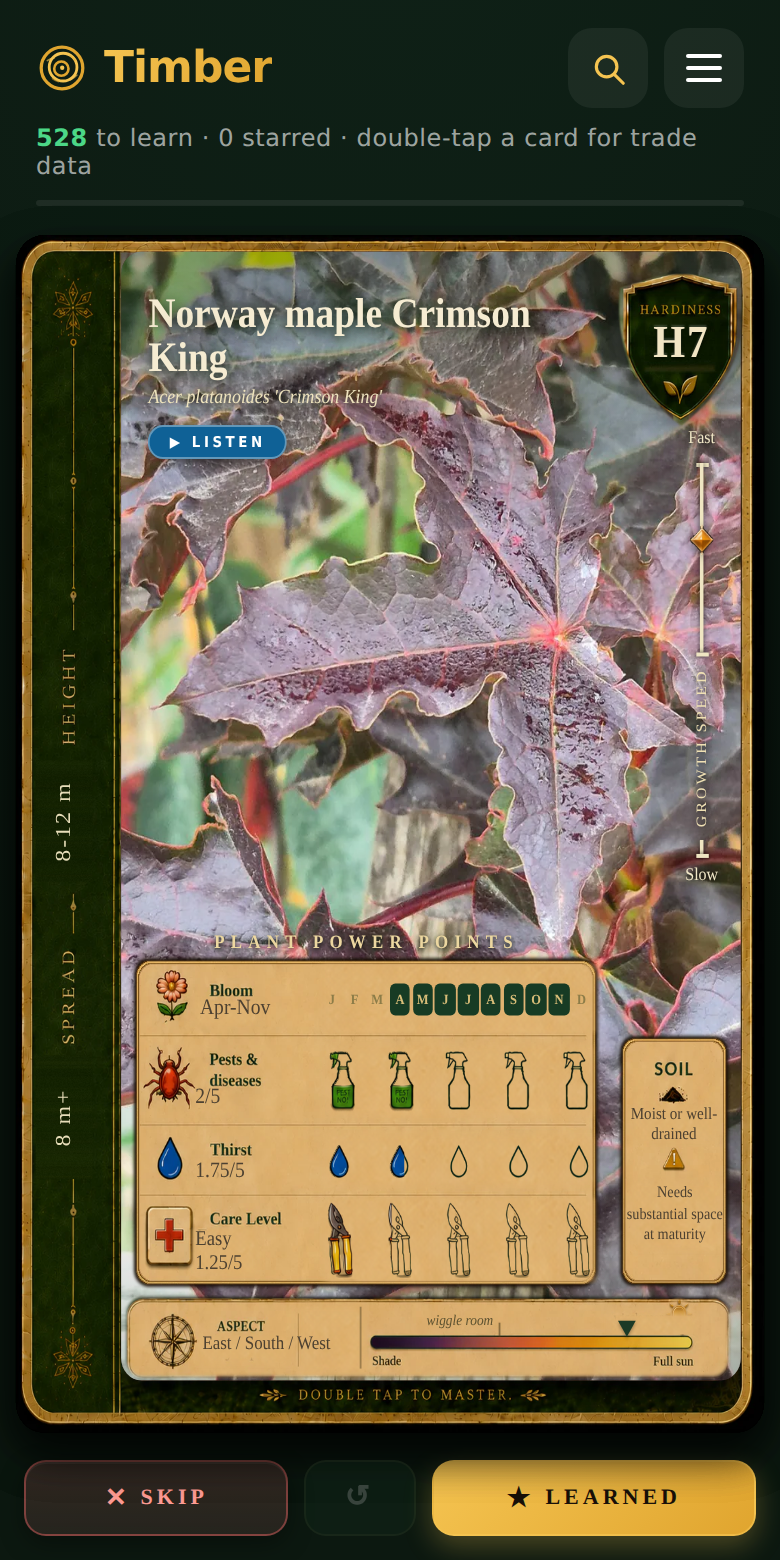
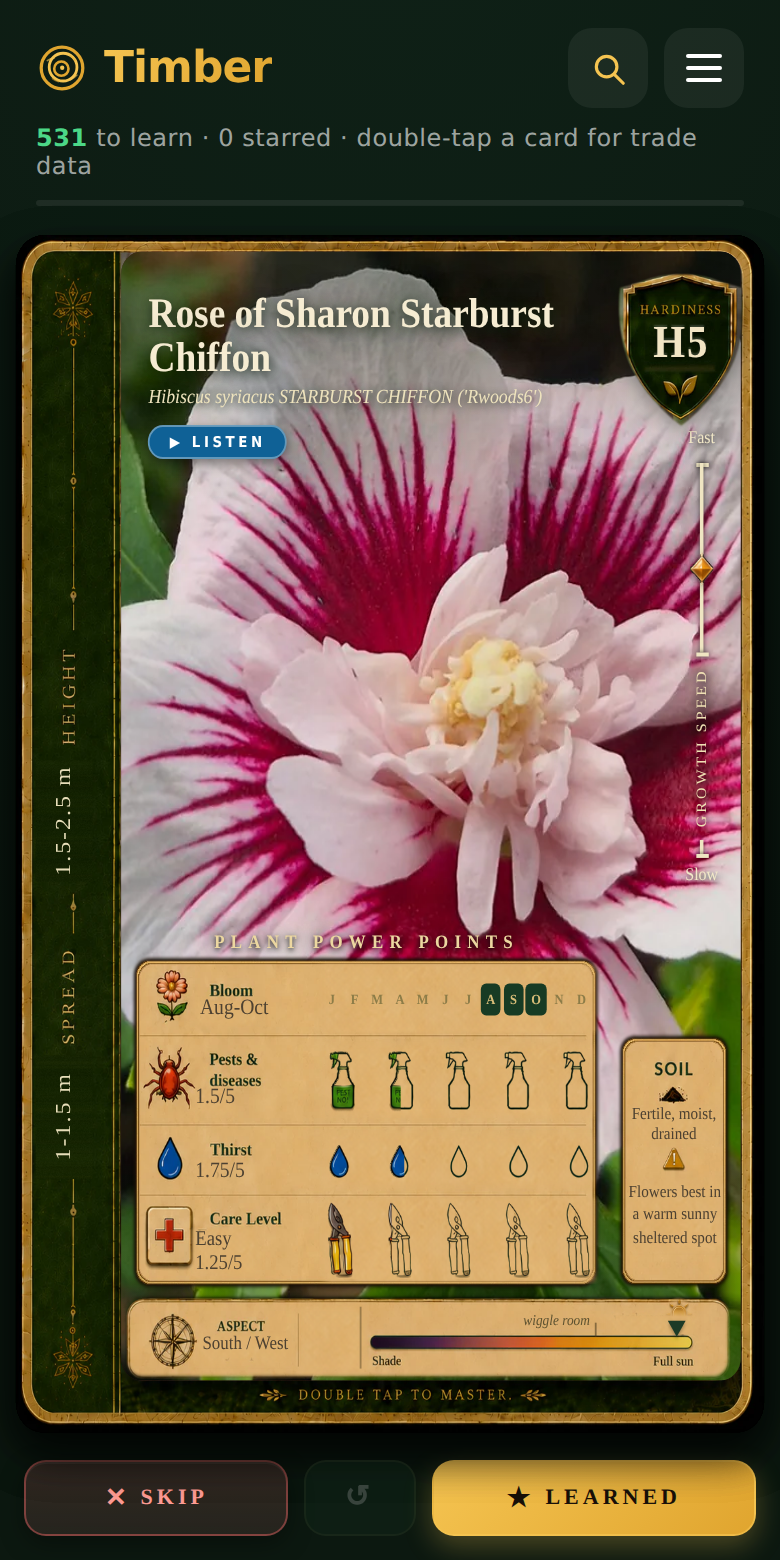
Deal cards 40-42 of the 2026-10-03 batch: Acer pseudoplatanus 'Drummondii', Abelia 'Radiance', Hibiscus STARBURST CHIFFON (deck 528 -> 531, r354); the batch is dealt
Oscar's last three photographs, sent in batch order and filed to the last
three entries by sight. One add-plants-bulk.js --quick run, card derivatives
built in the run, credits set by basename, originals stored byte-identical in
the batch folder with their EXIF and provenance scans in the README. All
three frame whole at default framing. Forty of the batch's forty-two entries
are now cards (Little Lime paused, Berrybank Dome a double). Data checks and
the fast set green; the full gate runs on this head before the ledger
records it and the PR is merged.

Claude-Session: https://claude.ai/code/session_0115MRQ7KYRqYEgMAWhohMA3

diff --git a/timber.html b/timber.html
@@ -1250,7 +1250,7 @@
 
 <script>
 /* ---------- latin pronunciation (built-in speech engine — offline, no files, no deps) ---------- */
-const BUILD='r353 · 2026-10-05 · 9410870';
+const BUILD='r354 · 2026-10-05 · f12321f';
 /* Shown in the menu foot so a phone's version is checkable at a glance — the SW
    serves the previous build once before swapping, which made "which build am I
    on?" a real question. DO NOT EDIT BY HAND: the trailing hash is a digest of
@@ -13336,6 +13336,45 @@ const PLANTS = [
    uses:"Large gardens, specimen tree, avenues.", size:"8-12 m H × 8 m+ W",
    hardinessNote:"Exceptionally cold-hardy.", foliage:"deciduous",
    seasonalImpact:"", growthSpeed:12, pestRisk:8, thirst:7, careLevel:5, sunNeed:80, sunMin:40},
+  {common:"Sycamore Drummondii", latin:"Acer pseudoplatanus 'Drummondii'", hue:80,
+   visual:"Large deciduous tree with broad green leaves conspicuously margined creamy white, creating a bright variegated canopy.",
+   water:"Moderate while establishing.",
+   aspect:"East / South / West",
+   soil:"Fertile, moist, drained; Cut out reverted all-green shoots at once",
+   prune:"Minimal pruning; remove reversions and damaged branches while dormant.",
+   source:"", peak:"Apr-Oct", order:"", bench:"", root:"",
+   trade:"", retail:"", margin:"", type:"", shrink:"", returnRisk:"", pots:"",
+   cvs:"Drummondii",
+   hardiness:"H7", resilience:"Very wind tolerant and adaptable.",
+   uses:"Large gardens, specimen tree, parkland.", size:"8-12 m H × 8 m+ W",
+   toxicity:"Seeds and seedlings can be harmful to horses.", hardinessNote:"Extremely cold-hardy.", foliage:"deciduous",
+   seasonalImpact:"", growthSpeed:12, pestRisk:8, thirst:7, careLevel:5, sunNeed:70, sunMin:35},
+  {common:"Abelia Radiance", latin:"Abelia × grandiflora 'Radiance'", hue:110,
+   visual:"Compact mound-forming shrub with glossy green leaves broadly variegated cream, bright red stems and lightly scented white trumpet flowers.",
+   water:"Moderate while establishing; some drought tolerance once mature.",
+   aspect:"South / West",
+   soil:"Moist but well-drained; Shelter from hard cold and drying winds",
+   prune:"Lightly shape in spring; older plants can be rejuvenated periodically.",
+   source:"", peak:"Jul-Oct", order:"", bench:"", root:"",
+   trade:"", retail:"", margin:"", type:"", shrink:"", returnRisk:"", pots:"",
+   cvs:"Radiance",
+   hardiness:"H4", resilience:"Drought resistant once established and generally pest-free.",
+   uses:"Containers, borders, low hedging, courtyard gardens.", size:"0.5-1 m H × 1-1.5 m W",
+   hardinessNote:"−10 to −5°C.", foliage:"semi-evergreen",
+   seasonalImpact:"", growthSpeed:9, pestRisk:3, thirst:7, careLevel:4, sunNeed:90, sunMin:65},
+  {common:"Rose of Sharon Starburst Chiffon", latin:"Hibiscus syriacus STARBURST CHIFFON ('Rwoods6')", hue:340,
+   visual:"Upright deciduous shrub bearing large semi-double pale pink flowers strongly marked with darker pink-red veins from late summer into autumn.",
+   water:"Moderate.",
+   aspect:"South / West",
+   soil:"Fertile, moist, drained; Flowers best in a warm sunny sheltered spot",
+   prune:"Prune lightly in spring to shape and remove damaged growth.",
+   source:"", peak:"Aug-Oct", order:"", bench:"", root:"",
+   trade:"", retail:"", margin:"", type:"", shrink:"", returnRisk:"", pots:"",
+   cvs:"Rwoods6 (Starburst Chiffon)",
+   hardiness:"H5", resilience:"Heat tolerant once established and flowers late when many shrubs have finished.",
+   uses:"Shrub borders, specimen planting, sunny walls, large containers.", size:"1.5-2.5 m H × 1-1.5 m W",
+   hardinessNote:"Hardy in most UK gardens, especially in a warm sheltered position.", foliage:"deciduous",
+   seasonalImpact:"", growthSpeed:9, pestRisk:6, thirst:7, careLevel:5, sunNeed:95, sunMin:70},
 ];
 /* PLANTS:END */
 /* HOLD:BEGIN — managed by plants-tool.js; keep this marker pair.

diff --git a/data/held-photos/2026-10-03/README.md b/data/held-photos/2026-10-03/README.md
@@ -505,6 +505,29 @@ and the Alstroemeria (Jun–Oct); the Euonymus in its Sep–Nov autumn colour; t
 | 38 | Euonymus alatus 'Compactus' | a two-panel collage, both panels rain-beaded leaves turned scarlet to crimson on green stems with small brown buds; matches "green leaves turning vivid rosy scarlet in autumn". The corky wings the common name refers to are not visible on the young stems in frame, nor any fruit. [Inference] consistent with Euonymus alatus in autumn colour; 'Compactus' is the label's ([Unverified] from the photo). |
 | 39 | Acer platanoides 'Crimson King' | large five-lobed, sharply pointed leaves in deep purple-black with red petioles and a glossy, rain-marked surface, against a fence; matches "broad five-lobed leaves remaining deep purplish-crimson". Genus and the purple-leaved Norway maple group read on the leaf ([Inference]); 'Crimson King' is the label's ([Unverified] from the photo). |
 
-Next to deal: #1 when Oscar has a photo he is sure of; then #40–#42 in batch order (Acer pseudoplatanus
-'Drummondii', Abelia × grandiflora 'Radiance', Hibiscus syriacus STARBURST CHIFFON ('Rwoods6')), which
-finishes the batch.
+## Cards 40–42 dealt (2026-10-05) — batch complete
+
+Oscar's last three photos, sent with "The pr n merge" ([Inference] "then the PR and merge") in batch order: a
+cream-margined sycamore leaf, variegated abelia foliage, a white hibiscus with a magenta eye; filed to #40 Acer
+pseudoplatanus 'Drummondii', #41 Abelia × grandiflora 'Radiance' and #42 Hibiscus syriacus STARBURST CHIFFON
+('Rwoods6') ([Inference] from the order and the plants against the entries). All three Galaxy S24 shots of
+2026-10-03 11:42–11:45, each trimmed on the phone (2450x2858, 3206x3000 and 3000x2994, orientation 1; staged
+1200x1400, 1200x1123 and 1200x1198); byte scans found no C2PA, JUMBF or `trainedAlgorithmicMedia` markers; XMP
+carries the Samsung Ultra HDR gain map as before. One `add-plants-bulk.js --quick` run, derivatives built in
+the run, credits by basename, conventions exactly as in `batch-corrected.json`, every other field as supplied.
+Deck 528 -> 531, hold 75 unchanged; restamped r354. Originals here are byte-identical to the files Oscar sent
+(md5 checked). Data checks green after the insert (the credits check failed only until the entries were
+written); fast set 9/9. Rendered at phone size from a `?cards=3` deck: all three frame whole at default
+framing, no `PHOTO_FOCUS` override; the two near-square frames (1.07 and 1.00) fill the well's height and lose
+only their sides. The Hibiscus is in flower (Aug–Oct); the Abelia card's Jul–Oct band names white trumpet
+flowers that are not in the frame; the sycamore is in leaf (Apr–Oct).
+
+| # | card | notes |
+|---|---|---|
+| 40 | Acer pseudoplatanus 'Drummondii' | large five-lobed sycamore leaves, grey-green with a broad creamy-white margin browning at the edges by October, on a young staked tree with green petioles; matches "broad green leaves conspicuously margined creamy white". The cultivar is the label's (GPT corrected 'pesudoplaanus', its own flag); [Unverified] from the photo. |
+| 41 | Abelia × grandiflora 'Radiance' | small glossy leaves, green centres with wide cream margins, some flushed pink, on thin red-brown stems; matches "glossy green leaves broadly variegated cream, bright red stems"; no flower in the frame. The cultivar is the label's ([Unverified] from the photo). |
+| 42 | Hibiscus syriacus STARBURST CHIFFON ('Rwoods6') | one large white semi-double flower, each outer petal feathered with magenta-red veins from the base, a ruffled pale centre around yellow stamens, lobed serrated leaves; the card's "semi-double pale pink flowers strongly marked with darker pink-red veins" — the photo reads white rather than pale pink ([Inference] a fresh flower in shade; card text left as supplied). The trade name is the label's ([Unverified] from the photo). |
+
+The batch is dealt: forty cards from forty-two entries. Not dealt: #1 LITTLE LIME ('Jane'), paused at Oscar's
+word until he has a photo he is sure of; #4 Berrybank Dome, resolved as a double of the dealt Gentiana
+sino-ornata (its cvs filled, no card added). Deck 491 -> 531 across the batch.
